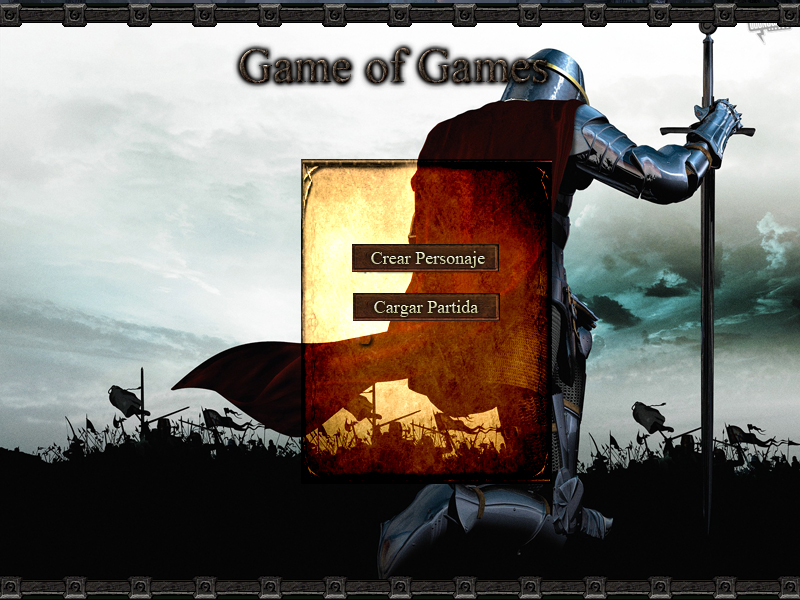
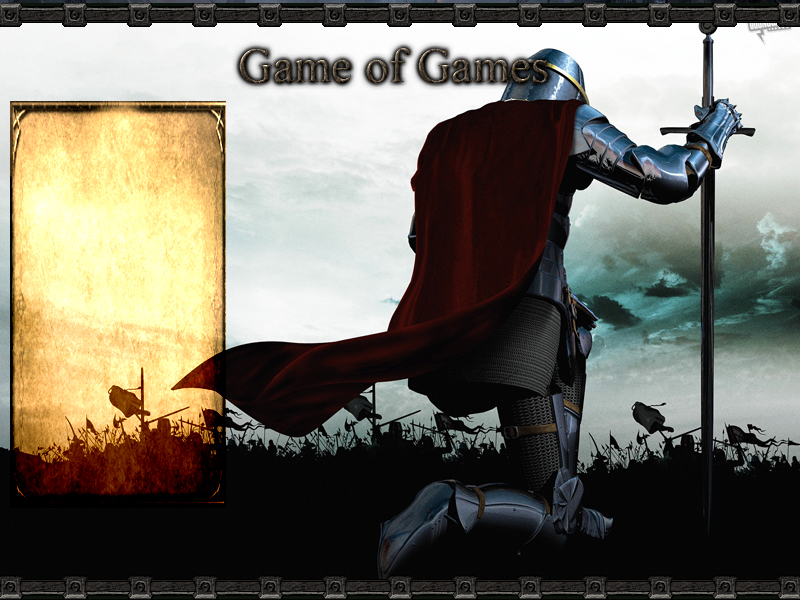
Modify background

diff --git a/GOG/src/ar/edu/itba/poo/slick/RPG.java b/GOG/src/ar/edu/itba/poo/slick/RPG.java
@@ -54,7 +54,7 @@ public class RPG extends BasicGameState {
 	public RPG(String title) {
 		super();
 		try {
-			//background = new Image("data/main.jpg");
+			background = new Image("data/main.jpg");
 		//Use "Exception" because it ends execution otherwise
 		} catch (Exception e) {
 			// TODO Auto-generated catch block
@@ -127,8 +127,8 @@ public class RPG extends BasicGameState {
 	
 	public void render(GameContainer container, StateBasedGame sbg, Graphics gr) throws SlickException {
 		
-		//if (background != null)
-		//	gr.drawImage(background, 0, 0);
+		if (background != null)
+			gr.drawImage(background, 0, 0);
 		
 		console.draw();
 		tiledmap.render(0, 90);

diff --git a/GOG/src/ar/edu/itba/poo/gamelogic/Alive.java b/GOG/src/ar/edu/itba/poo/gamelogic/Alive.java
@@ -30,7 +30,7 @@ public class Alive implements Observable, Serializable{
 	
 	/**
 	 * Moves the alive to the next tile in the direction given.
-	 * @param dir direction;
+	 * @param direction;
 	 */
 	public void move(Dir dir){
 		

diff --git a/GOG/src/ar/edu/itba/poo/gamelogic/Type.java b/GOG/src/ar/edu/itba/poo/gamelogic/Type.java
@@ -2,8 +2,6 @@ package ar.edu.itba.poo.gamelogic;
 
 import java.io.Serializable;
 
-import org.newdawn.slick.SlickException;
-
 
 public abstract class Type implements Serializable{
 	
